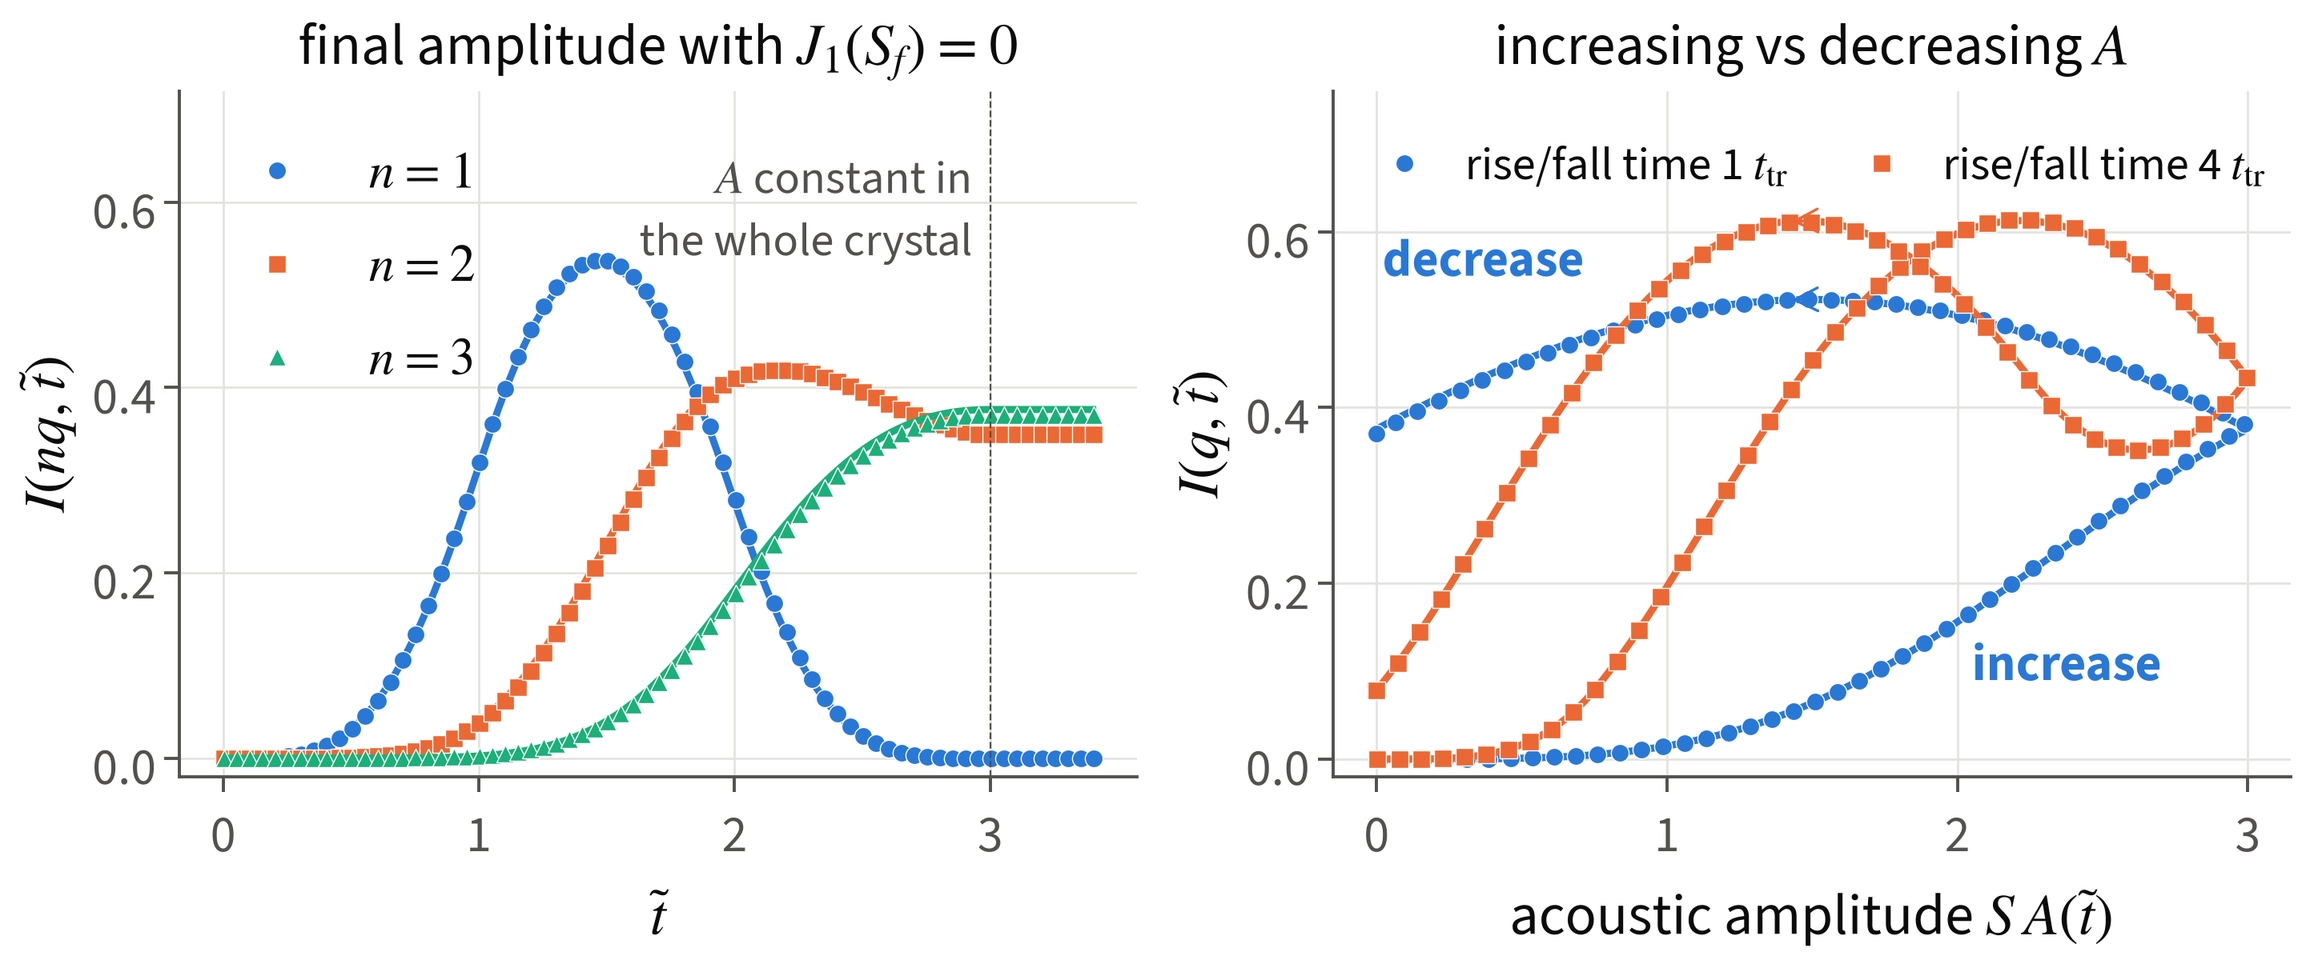
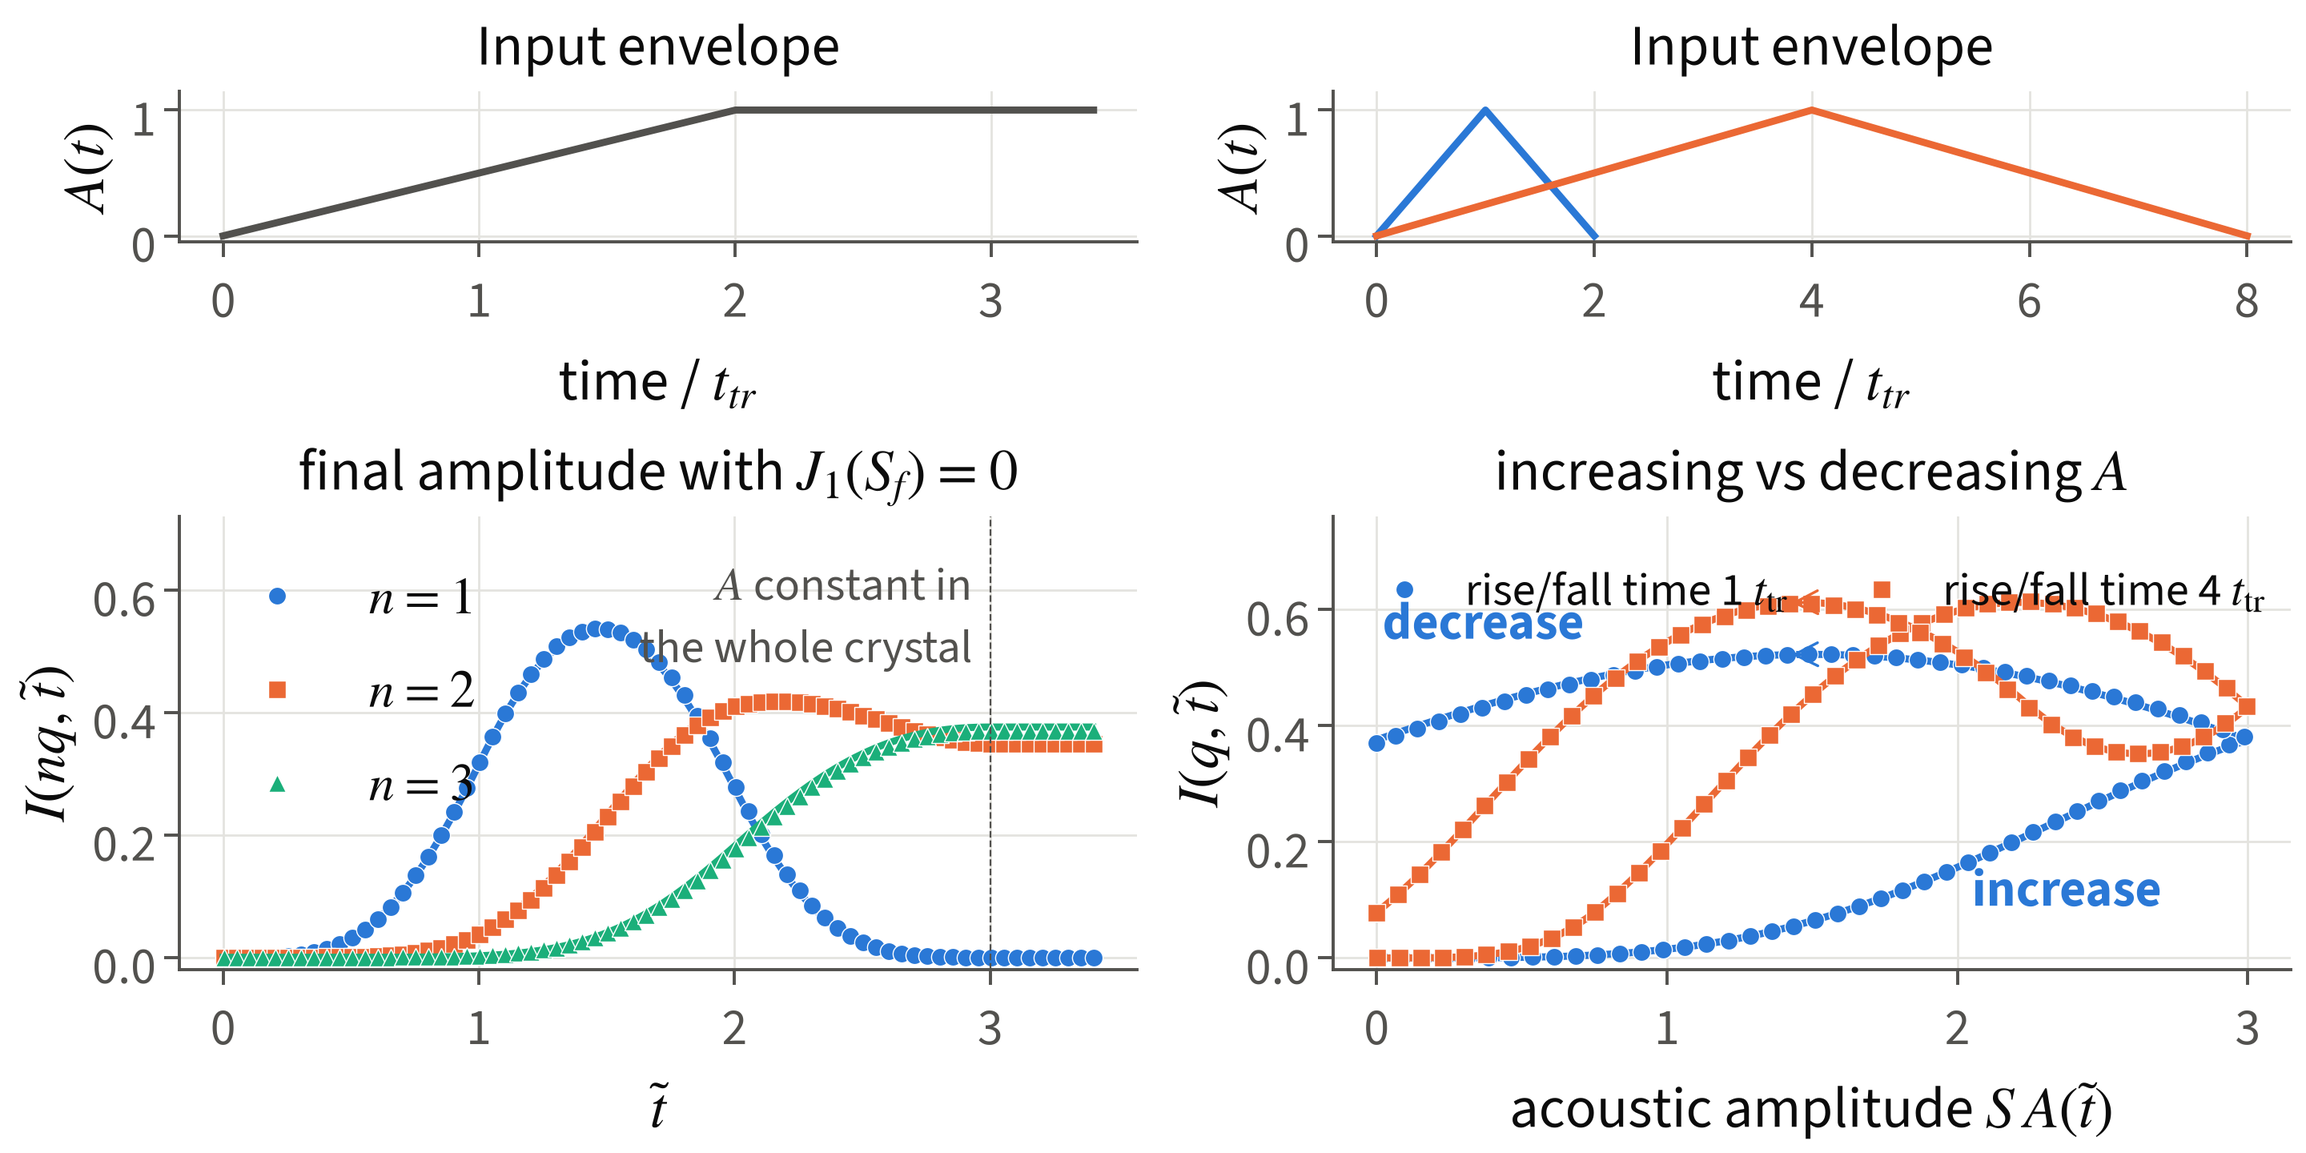
poster: overshoot map panel and repo QR

diff --git a/explore/make_poster_figs.py b/explore/make_poster_figs.py
@@ -10,6 +10,8 @@ f3  path memory: transient-only satellite, up vs down a pulse       (make_memory
 f4  population error of the independent-channel picture vs R        (make_phase_figure.merged; Entry 54)
 f5  outlook: Fourier weight / kinematic law (Entry 59, e58 data) and the satellite weight of the
     first-order forms against full TT (Entry 64, e64_sw.json); reads stored results only
+f6  introductory Bessel coupling weights for a sinusoidal grating
+f7  linear-ramp overshoot map and three TT-checked traces (Entry 67)
 """
 
 from __future__ import annotations
@@ -195,7 +197,16 @@ def f2():
 def f3():
     import make_memory_figure as M
     style()
-    fig, ax = plt.subplots(1, 2, figsize=(FIG_W, 6.0), constrained_layout=True)
+    fig, axes = plt.subplots(2, 2, figsize=(FIG_W, 7.2), constrained_layout=True,
+                             gridspec_kw=dict(height_ratios=[1, 3]))
+    ax = axes[1]
+    time = np.linspace(0, 3.4, 300)
+    axes[0, 0].plot(time, np.clip(time / 2, 0, 1), color=INK2)
+    axes[0, 1].plot([0, 1, 2], [0, 1, 0], color=BLUE)
+    axes[0, 1].plot([0, 4, 8], [0, 1, 0], color=ORANGE)
+    for a in axes[0]:
+        a.set(ylim=(-0.05, 1.15), yticks=[0, 1], xlabel=r"time / $t_{tr}$",
+              ylabel=r"$A(t)$", title="Input envelope")
     M.panel_a(ax[0], small=SMALL - 2, title=r"final amplitude with $J_1(S_f)=0$")
     M.panel_b(ax[1], small=SMALL - 2, title=r"increasing vs decreasing $A$")
     for line in ax[0].lines + ax[1].lines:
@@ -210,7 +221,7 @@ def f3():
     # which branch is which: every loop starts at the origin, so the lower branch is the rise
     ax[1].text(2.05, 0.09, "increase", color=BLUE, fontsize=SMALL, fontweight="bold")
     ax[1].text(0.02, 0.55, "decrease", color=BLUE, fontsize=SMALL, fontweight="bold")
-    finish(fig, ax, "f3_memory")
+    finish(fig, axes.flat, "f3_memory")
 
 
 def f4():
@@ -287,6 +298,61 @@ def f5():
     finish(fig, ax, "f5_outlook")
 
 
+def f6():
+    """Known Bessel coupling weights, not dynamical peak intensities."""
+    from scipy.special import jv
+
+    style()
+    fig, ax = plt.subplots(figsize=(FIG_W / 2, 4.2), constrained_layout=True)
+    amplitude = np.linspace(0, 5, 501)
+    for n, color in zip((0, 1, 2, 3), (INK2, BLUE, ORANGE, AQUA)):
+        ax.plot(amplitude, np.abs(jv(n, amplitude)), color=color, label=rf"$n={n}$")
+    ax.set(xlabel=r"sound amplitude $S=h u_0$", ylabel=r"coupling weight $|J_n(S)|$",
+           xlim=(0, 5), ylim=(0, 1.04), title="Sinusoidal grating: Bessel weights")
+    ax.legend(frameon=False, ncol=2, fontsize=SMALL - 2)
+    finish(fig, ax, "f6_background")
+
+
+def f7():
+    import json
+
+    style()
+    data = np.load(ROOT / "explore" / "nb" / "e67_overshoot.npz")
+    summary = json.loads((ROOT / "explore" / "nb" / "e67_overshoot.json").read_text())
+    fig = plt.figure(figsize=(FIG_W, 9.0), constrained_layout=True)
+    grid = fig.add_gridspec(2, 3, height_ratios=[1.4, 1])
+    ax = fig.add_subplot(grid[0, :])
+    im = ax.pcolormesh(data["S"], data["rise"], data["excess"], shading="nearest",
+                       cmap="YlOrRd", vmin=0)
+    cb = fig.colorbar(im, ax=ax, pad=0.02, fraction=0.045)
+    cb.set_label(r"excess intensity $I_{max}-I_{steady}$")
+    ax.set(xlabel=r"final sound amplitude $S$", ylabel=r"rise time $T_{rise}/t_{tr}$",
+           title=r"Linear turn-on, then held: first satellite ($n=1$)")
+    for case, color, label in zip(summary["cases"], (BLUE, ORANGE, AQUA),
+                                  ("A: no overshoot", "B: overshoot", "C: near a Bessel zero")):
+        letter, S, rise = case["label"], case["S"], case["rise"]
+        ax.plot(S, rise, "o", color=color, mec="white", mew=2, ms=13)
+        ax.annotate(letter, (S, rise), xytext=(9, 9), textcoords="offset points",
+                    fontsize=BIG, fontweight="bold", color=INK)
+        a = fig.add_subplot(grid[1, ord(letter) - ord("A")])
+        a.plot(data[f"{letter}_t"], data[f"{letter}_I"], color=color)
+        a.plot(data[f"{letter}_tt_t"][::3], data[f"{letter}_tt_I"][::3], "o",
+               color=color, mec="white", ms=7)
+        a.axhline(case["steady"], color=INK2, ls="--", lw=1.5)
+        a.set(xlabel=r"time / $t_{tr}$", ylim=(-0.025, 0.68), title=label)
+        a.text(0.04, 0.94, f"S={S:g}, rise={rise:g}", transform=a.transAxes,
+               fontsize=SMALL - 2, va="top", bbox=dict(facecolor="white", edgecolor="none", pad=2))
+        if letter == "A":
+            a.set_ylabel("satellite intensity")
+        else:
+            a.tick_params(labelleft=False)
+        a.grid(color=GRID, lw=1)
+        a.set_axisbelow(True)
+    OUT.mkdir(parents=True, exist_ok=True)
+    fig.savefig(OUT / "f7_overshoot.png")
+    print("wrote", OUT / "f7_overshoot.png")
+
+
 if __name__ == "__main__":
-    for name in (sys.argv[1:] or ["f0", "f1", "f2", "f3", "f4", "f5"]):
+    for name in (sys.argv[1:] or ["f0", "f1", "f2", "f3", "f4", "f5", "f6", "f7"]):
         globals()[name]()

diff --git a/poster/build.py b/poster/build.py
@@ -8,7 +8,8 @@ Look (v3, lab template). Matches the CUPT lab posters for KPS 2026 (J. Jang, pos
 header with the IHS shield left and the white CUPT logo right, three-colour stripe, white page,
 thin dark-outlined boxes with "■ Title" heads, an Acknowledgement box at the bottom.
 Text in Source Sans 3 (the lab posters use Arial). A QR code to the repository sits in the
-Acknowledgement box (poster/assets/qr_repo.png, made once with segno).
+Acknowledgement box (figures/poster/qr_repo.png, made by explore/make_poster_qr.py;
+poster/assets/qr_repo.png remains an optional override).
 v2 (gray page, shadowed cards, orange number badges, Plex Sans) is in git history (c381842).
 Kept from v2:
 - text in IBM Plex Sans (poster/fonts, SIL OFL); math in STIX, so a variable is a serif italic
@@ -222,7 +223,7 @@ class Page:
         img = mpimg.imread(path)
         h = h or w * img.shape[0] / img.shape[1]
         a = self.fig.add_axes([x / SPEC["W"], 1 - (y + h) / SPEC["H"], w / SPEC["W"], h / SPEC["H"]], zorder=z)
-        a.imshow(img, interpolation="lanczos")
+        a.imshow(img, cmap="gray", interpolation="lanczos")
         a.axis("off")
         return h
 
@@ -327,6 +328,8 @@ def build(preview_dpi=60, extra=None, save=True):
     ax.text(M + s["pad"], fy + 6 + s["head_pt"] * PT_MM * 0.9, "■ Acknowledgement", fontsize=s["head_pt"] - 6,
             color=s["ink"], family=FONT, fontweight="bold", va="baseline", zorder=3)
     qr = ASSETS / "qr_repo.png"
+    if not qr.exists():
+        qr = ROOT / "figures" / "poster" / "qr_repo.png"
     qw = s["footer_h"] - M * 0.75 - 6 if qr.exists() else 0
     if qw:
         P.image(qr, W - M - 3 - qw, fy + 3, qw, h=qw)

diff --git a/explore/make_poster_qr.py b/explore/make_poster_qr.py
@@ -1,0 +1,12 @@
+"""Repository QR. Run: uv run --with segno==1.6.6 python explore/make_poster_qr.py"""
+from pathlib import Path
+
+import segno
+
+ROOT = Path(__file__).resolve().parents[1]
+URL = "https://github.com/NaNIsaac/TraTT"
+
+if __name__ == "__main__":
+    out = ROOT / "figures" / "poster" / "qr_repo.png"
+    segno.make_qr(URL, error="m").save(out, scale=12, border=4)
+    print(f"wrote {out}: {URL}")

diff --git a/poster/poster.md b/poster/poster.md
@@ -6,71 +6,62 @@ footer: P2.17 · 2026 KPS Fall Meeting, Jeju, October 22, 2026 · This work was 
 ---
 
 <!--
-Poster manuscript. This file is the only source of printed text; poster/build.py reads it and
-never edits it. Every item carries {E..} tags pointing at notes/lab_notebook.md (checked).
-Syntax: see the docstring of poster/build.py. Poster figures: python explore/make_poster_figs.py
-
-Three observations, in this order, and everything else is evidence for them:
-  1 each satellite has its own growth time;
-  2 with a ramped drive, the satellites follow the drive history;
-  3 the single-satellite picture holds up to R ~ 0.3.
-These are simulation results; the text says what we saw, not more.
+Printed text source; build with python poster/build.py.
+Reading order: two full-width background panels, then left and right simulation panels.
+Notebook tags retain the evidence; detailed derivations stay in the notebook.
 -->
 
 @wide
 
-## Introduction
+## Introduction: sound makes a moving diffraction grating
 
-A sound wave in a crystal produces extra peaks (satellites $n = \pm1, \pm2, \dots$) in the X-ray rocking curve $I(\eta)$. For a fully strained crystal they are known. We calculate them during the transit time $t_{tr} = L/v_s$, when the acoustic front is still inside the crystal ($L$: thickness, $v_s$: sound velocity). {E0}
+**Why this matters.** Time-resolved X-ray diffraction can probe sound travelling inside a crystal. To interpret the changing signal, we need to understand how the diffraction pattern forms while the sound enters. {E0}{E7}
 
-Previous work: time-domain Pendellösung of the main peak (DeCamp et al., Nature 413, 825 (2001)); satellites of a fully strained crystal (Entin; Zolotoyabko et al.). {E7}
+**Physical picture.** A crystal diffracts X-rays near its Bragg angle. A sound wave periodically displaces its atomic planes, adding a moving grating to the crystal. This produces extra diffraction peaks, called **acoustic satellites**, beside the main peak. {E0}{E7}
 
-- Method: two-beam Takagi–Taupin (TT) equations, Laue and Bragg geometry, solved for the strain profile at each time $t$. The X-ray passes the crystal in less than 1.2 % of one acoustic period. {E0}{E62}
-- Parameters: $\alpha = L/\Lambda_P$ ($\Lambda_P$: Pendellösung length), acoustic amplitude $S = h u_0$, $R = \Lambda_{ac}/\Lambda_P$. Code tested against analytic solutions ($10^{-9}$) and an exact Floquet solver ($3\times10^{-7}$). {E0}{E42}
+**Setup.** A transducer launches sound at one surface. The front moves at speed $v_s$ through thickness $L$. At each time, we calculate the diffracted intensity while scanning the X-ray angle: this is the **rocking curve**. {E0}{E62}
 
-![Calculation at $\tilde t = t/t_{tr}$ = 0.62. Left: strain inside the crystal. Right: calculated $I(\eta)$ at the same time ($\alpha$ = 0.6, $S$ = 1.5, $\alpha_{ac}$ = 5).](figures/poster/f0_scheme.png){E0}
+![Sound has reached only part of the crystal. The curve at right is the calculated diffraction pattern at that instant.](figures/poster/f0_scheme.png){E0}
 
-> **Main result.** Satellite $n$ at time $t$ has the intensity of a uniform crystal of thickness $v_s t$ and coupling $\alpha\left|J_n(S)\right|$ ($J_n$: Bessel function), so its formation time is $\tau_n = \Lambda_P/(v_s\left|J_n(S)\right|)$. {E1}{E9}{E33}
+@wide
 
-## Formation time of each satellite
+## Background: what the established theory tells us
 
-- Satellite intensity: $I_n = \sin^2(\pi\alpha_n \tilde t)$ (Laue) and $\tanh^2(\pi\alpha_n \tilde t)$ (Bragg), with $\alpha_n = \alpha\left|J_n(S)\right|$. {E1}{E9}
+**Steady state.** Once a constant-amplitude sound wave fills the crystal, its acoustic-period-averaged diffraction pattern is stationary. During entry, only the depth $v_s t$ is vibrating. The transit time is $t_{tr}=L/v_s$. {E0}{E7}{E42}{E53}
 
-![Points: full TT calculation for four $(S, \alpha, n)$. Lines: the formulas above, **no fitting parameter**. $\tau_n$ does not depend on $L$. The satellite with the largest $\left|J_n(S)\right|$ forms first; at $S=3$ the order is $n=2$, 1, 3.](figures/poster/f1_collapse.png){E1}{E9}{E24}
+**Why Bessel functions?** A sinusoidal displacement changes the X-ray phase. Splitting that phase modulation into diffraction orders gives Bessel weights $J_n(S)$: $n$ labels the satellite and $S=h u_0$ measures displacement amplitude ($h$: diffraction-vector component). They describe coupling; repeated scattering also determines intensity. {E0}{E7}{E42}
 
-## Satellite line shape at the intensity minimum
+**Pendellösung.** In transmission (Laue geometry), the forward and diffracted beams exchange intensity with depth, repeating over a length $\Lambda_P$. Increasing the vibrating depth can therefore produce oscillations rather than continuous peak growth. {E1}{E9}
 
-- At $\alpha_n \tilde t = 1$ the intensity at the satellite centre is **0.1–0.2 %** of its maximum. However, **≈52 %** of the integrated intensity remains in two side peaks, which move toward the centre with time. {E23}
+![Bessel weights for a sinusoidal displacement. Changing amplitude changes which satellite couples most strongly. These weights are not the full diffraction intensities.](figures/poster/f6_background.png){E0}{E7}{E42}
 
-![Satellite $n=1$, $S=1.5$, $\alpha=3$. Left: $I(\eta, \tilde t)$; the line becomes narrower with time. Right: intensity at the satellite centre.](figures/poster/f2_fringes.png){E22}{E23}
+> **Our question:** how do the satellites form before the sound fills the crystal, and how does the way we launch sound change that process? {E0}{E28}{E33}
 
-## Validity of the independent-satellite approximation
+## Simulation 1: watch the satellites form
 
-- The formulas above treat each satellite independently. Error < 5 % for $R \lesssim 0.3$; limit $R$ = **0.34–0.57**, depending on $S$. {E53}{E54}
-- For larger $R$ the satellites are coupled through the forward beam. By this third-order coupling, $\pi\alpha (R/2)^2 C_n(S)$, a satellite with $J_n(S)=0$ has a small nonzero intensity. {E44}{E45}{E50}{E52}
+We solve the two-beam Takagi–Taupin equations for each lattice snapshot. X-rays cross much faster than sound moves. Repeating this calculation gives the time evolution of the rocking curve. {E0}{E62}
 
-![Error of the independent-satellite approximation. Each point: one $(\alpha, \alpha_{ac}, S)$.](figures/poster/f4_regime.png){E54}
+For a sudden turn-on, the vibrating depth grows as $v_s t$. Each satellite has its own time scale: $\tau_n=\Lambda_P/(v_s\left|J_n(S)\right|)$. It can rise and fall in Laue geometry, or approach saturation in reflection (Bragg geometry). {E1}{E9}{E33}
+
+![After rescaling time, different amplitudes and satellite orders follow the same curves. Points: full simulation; lines: prediction, with no fitted parameter. $\alpha=L/\Lambda_P$, $\alpha_n=\alpha\left|J_n(S)\right|$, $\tilde t=t/t_{tr}$.](figures/poster/f1_collapse.png){E1}{E9}
+
+> **Compared with steady state:** final peak heights do not show when each satellite forms, or whether it passes through a maximum on the way. {E1}{E9}{E33}
+
+
+## What the simulations show
+
+Bessel weights set formation times. Amplitude and rise time control overshoot: a weak final satellite can be bright during turn-on. {E1}{E9}{E28}{E67}
+
+Calculation only: symmetric, non-absorbing, two-beam model; the simple formation law assumes well-separated satellites. {E0}{E53}{E54}
 
 @column
 
-## Time-dependent acoustic amplitude
+## Simulation 2: where is overshoot strongest?
 
-- If the amplitude $A(t)$ changes in time, satellite $n$ depends on the amplitude during the last $t_{tr}$: $\Theta_n = \int J_n(S\,A(t-\zeta))\,d\zeta$. {E28}{E30}
-- If $J_1(S_f)=0$ at the final amplitude, $n=1$ is absent in the steady state but is the **strongest** satellite for some time (left). Increasing or decreasing $A$ to the same final value gives different intensities (right). {E28}{E30}{E34}
+The **envelope** controls turn-on: amplitude rises linearly from zero to $S$ over $T_{rise}$, then stays constant. We scan amplitude and rise time for the first Laue satellite at $L/\Lambda_P=0.5$. {E67}
 
-![Laue, $\alpha=0.5$. Points: full TT. Lines: formula with $\Theta_n$.](figures/poster/f3_memory.png){E28}{E30}
+**Overshoot** means the transient intensity exceeds its final steady value. Colour shows $\Delta I=I_{max}-I_{steady}$, in units of incident intensity. A difference remains meaningful even when the final satellite is nearly dark. {E67}
 
-## Outlook: measurement of the phonon spectrum
+![Map: 11,211 conditions from the independent-satellite approximation. A–C mark the traces below: lines, approximation; dots, full TT; dashed, steady state. Intensities are carrier-phase averaged at the satellite centre; $\Lambda_{ac}/\Lambda_P=0.0125$. B peaks at 1.69 times its final intensity.](figures/poster/f7_overshoot.png){E67}
 
-- For small strain, the Fourier component of $R(t)$ is the strain spectrum times a transfer function $H(\omega)$, obtained analytically to first order in $S$ (agreement with full TT: 2–5 %). {E59}
-- Valid inside the Darwin width, where the perturbation theory of Sondhauss & Wark (2003) differs from full TT by a factor 3–8. Comparison with previous work is not complete. {E61}{E64}
-
-![(a) Fourier weight / kinematic value ($\kappa/2\pi\alpha$ = 0.12): three acoustic pulses give one curve. (b) First-order theory / full TT.](figures/poster/f5_outlook.png){E59}{E64}
-
-## Conclusion
-
-%% $\tau_n \propto 1/\left\vert J_n\right\vert$ | formation time is different for each satellite {E1}{E9}
-%% $\Theta_n$ | intensity depends on the amplitude during the last $t_{tr}$ {E28}{E30}
-%% $R \lesssim 0.3$ | independent-satellite approximation within 5 % {E54}
-
-- Calculation only. Proposed experiment: Si 440, 17–30 keV, 1–2 GHz, $\tau_1$ = 17–30 ns. {E20}
+> **Why the bright region?** During turn-on, the sound passes through amplitudes with stronger Bessel coupling than at its final value. The rise time controls how much of the crystal contains those amplitudes together. {E15}{E67}

diff --git a/notes/poster_outline.md b/notes/poster_outline.md
@@ -1,4 +1,30 @@
-# KPS 2026 Fall poster — outline draft (2026-09-30, updated 2026-10-02 for Entries 34–57)
+# Current poster structure (2026-10-19)
+
+Audience: visitors unfamiliar with acoustic gratings, Bessel weights, or dynamical diffraction.
+The printed manuscript is `poster/poster.md`; the earlier detailed outline below is retained
+as background for discussion and is no longer the printed panel plan.
+
+1. Full-width introduction: motivation, sound-induced grating, satellites, launch and X-ray setup.
+2. Full-width background: steady state versus partial filling, Bessel coupling weights,
+   Pendellösung in plain language, and the transient research question.
+3. Left: snapshot calculation and sudden-onset formation; explain the time scale and compare
+   with steady state. A short conclusion below states the findings and model scope.
+4. Right: amplitude versus rise-time overshoot map for a linear ramp, followed by three
+   marked time traces (no overshoot, moderate overshoot, near a Bessel zero). Define the
+   envelope before the map; explain why transient coupling can exceed its final value.
+   Entry 67 records the 11,211-point approximation scan, numerical refinement, and TT checks.
+   Colour is peak minus steady centre intensity, normalized to incident intensity; it is
+   not a peak/steady ratio or an angle-integrated satellite intensity. The earlier
+   ramp/triangle memory plot remains available as `figures/poster/f3_memory.png`.
+
+Keep line-shape minima, high-order coupling, regime maps, and phonon-spectrum transfer
+functions in the notebook for questions. They are outside this introductory poster's story.
+The Bessel plot shows coupling weights, not universal satellite intensities. Steady state
+refers here to the acoustic-period-averaged response of a fully filled, constant-amplitude wave.
+
+---
+
+# Earlier detailed outline (2026-09-30, updated 2026-10-02 for Entries 34–57)
 
 Title (abstract): *Transient Formation Dynamics of Acoustic Bragg Satellites in
 Dynamical X-ray Diffraction.* Every claim below points to a notebook entry
